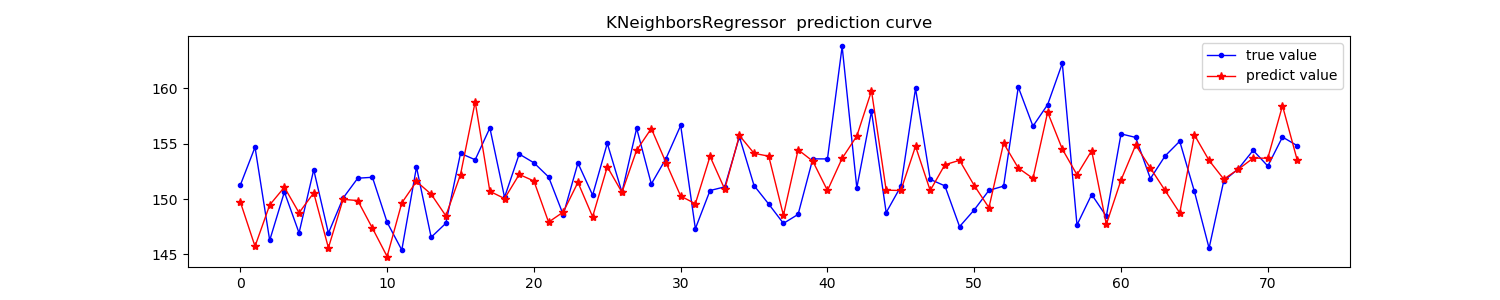
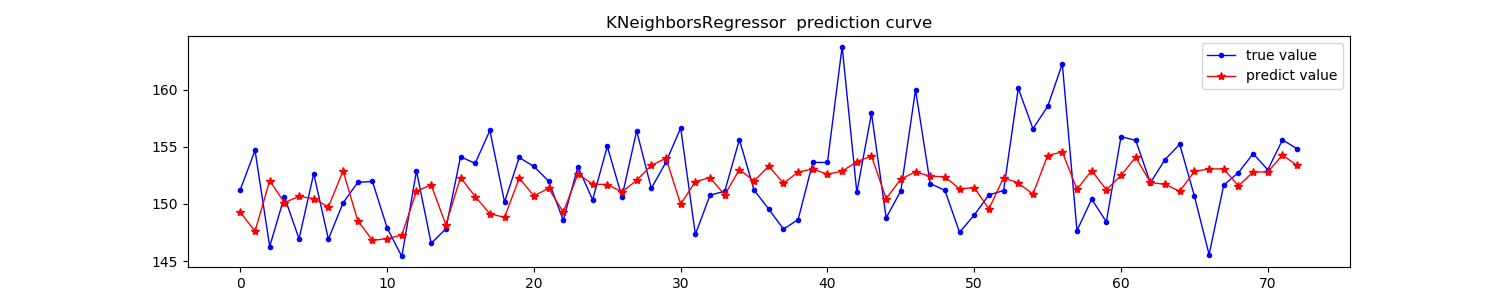
更新knn

diff --git a/data/jwl/reg.py b/data/jwl/reg.py
@@ -60,7 +60,7 @@ LR = linear_model.LinearRegression()
 # #CoReg半监督回归
 # CoReg = coreg.Coreg(k1=3, k2=3, p1=2, p2=5, max_iters=100, pool_size=100, trials=1, verbose=False)
 #KNN回归
-KNN = KNeighborsRegressor(n_neighbors=3)
+KNN = KNeighborsRegressor(n_neighbors=15)
 #GPR
 GPR = GaussianProcessRegressor()
 #PLS
